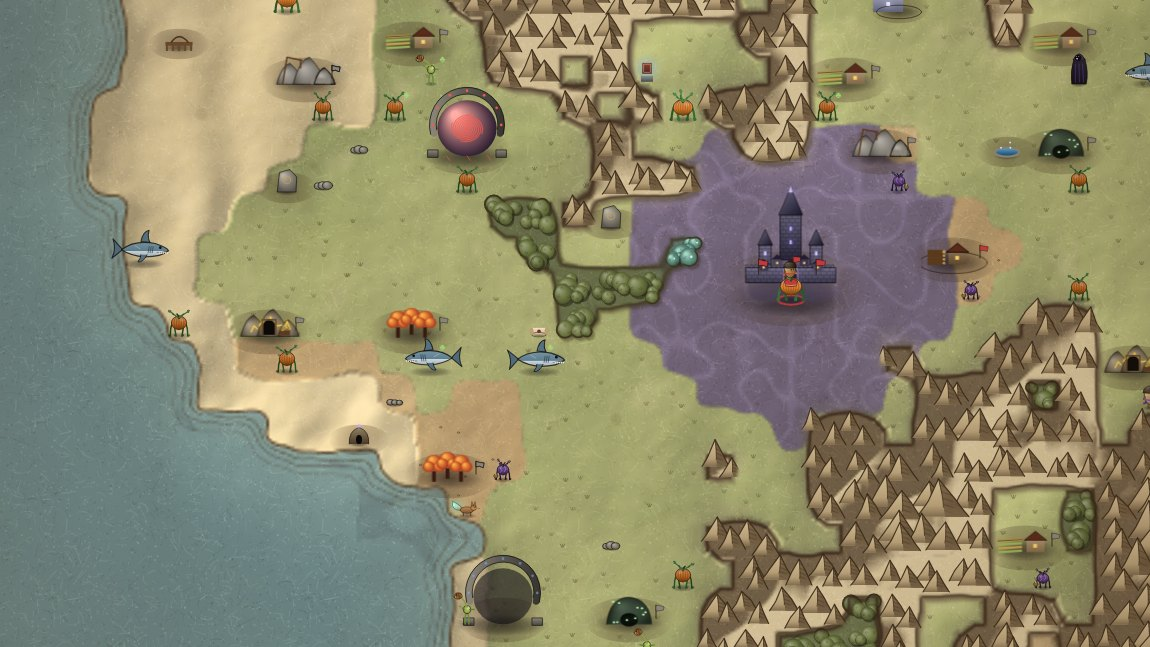
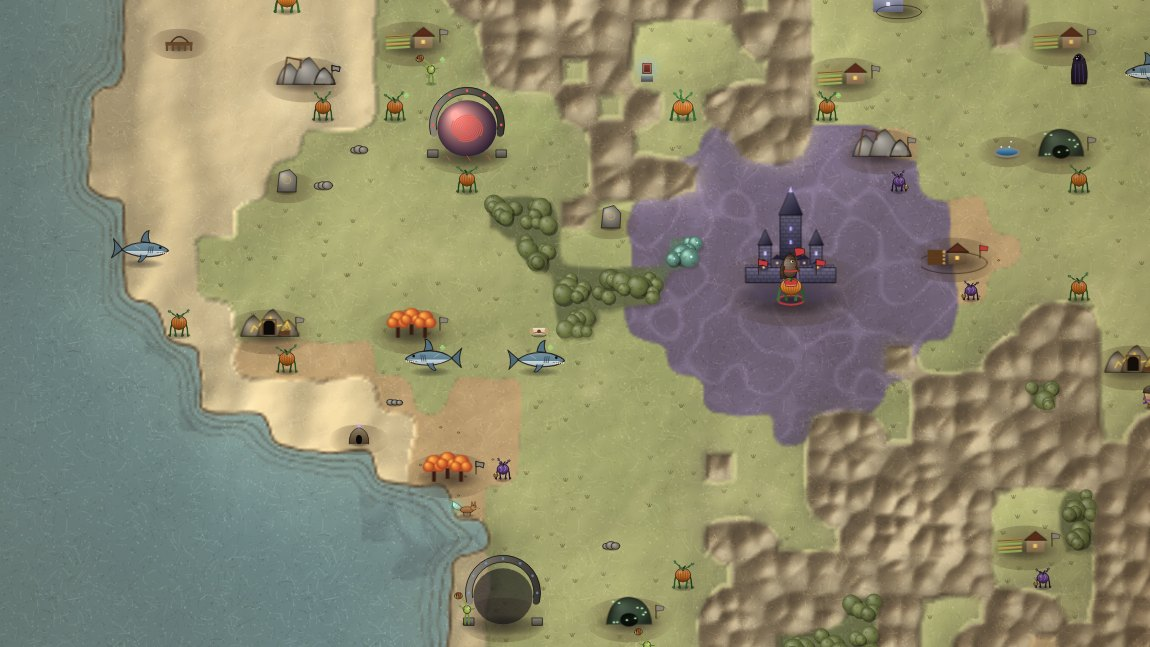
Skaar Uverkhron: paint mountains into the land as shaded relief
No more outlined base with peak pictures on top: each mountain tile
carries a few peaks and the range's height is the highest of them,
carved with gullies, lit from the north-west, darker at the foot and
snowy on high summits. Woods lose their hard ink outline and get
softer crowns. Hub preview refreshed.

Claude-Session: https://claude.ai/code/session_01HBjV8r2dv5uW79FEvfkpGS

diff --git a/skaar-uverkhron/js/view_map.js b/skaar-uverkhron/js/view_map.js
@@ -85,7 +85,7 @@
   };
   const PALRGB = {}; Object.keys(PAL).forEach(k => PALRGB[k] = { a: hex(PAL[k].a), b: hex(PAL[k].b), c: hex(PAL[k].c) });
   const WOODCOL = { tree: hex('#4f5a33'), glowtree: hex('#43625a'), pine: hex('#3f4c3a'), palm: hex('#66703f'), deadtree: hex('#5e5244'), reeds: hex('#6b6c44') };
-  const MROCK = hex('#8f7a5c'), MSNOW = hex('#ece3cc'), MR0 = hex('#5a4630'), MR1 = hex('#9a8562'), MR2 = hex('#cdb98f');
+  const MROCK = hex('#8f7a5c'), MSNOW = hex('#ece3cc'), MR0 = hex('#4a3a28'), MR1 = hex('#8c7656'), MR2 = hex('#d6c49c');
   const ROCK = hex('#9a8c72'), FOREST = hex('#5c6640'), REED = hex('#7b7c50'), SURF = hex('#c9c3a4'), WET = hex('#6c776a'), INK = hex('#4a3826'), PAPER = hex('#e8d9b4');
   const TOFF = {}; Object.keys(PAL).forEach((k, i) => TOFF[k] = i * 37.31 + 11.7);
   const sstep = (a, b, x) => { const t = SU.clamp((x - a) / (b - a), 0, 1); return t * t * (3 - 2 * t); };
@@ -142,6 +142,14 @@
     for (let qi = 0; qi < mq.length; qi++) { const o = mq[qi], i = o % TW, j = (o / TW) | 0;
       for (let dy = -1; dy <= 1; dy++) for (let dx = -1; dx <= 1; dx++) { const ii = i + dx, jj = j + dy; if ((!dx && !dy) || ii < 0 || jj < 0 || ii >= TW || jj >= TW) continue; const p = jj * TW + ii; if (mdist[p] > mdist[o] + 1) { mdist[p] = mdist[o] + 1; mq.push(p); } } }
     for (let o = 0; o < TW * TW; o++) if (mdist[o] > 50) mdist[o] = 4;
+    /* the peaks: two or three on every mountain tile, set by the tile itself (so neighbouring chunks agree),
+       taller and broader deep inside a range; the range's height is the highest cone at each point */
+    const PK = new Array(TW * TW);
+    for (let j = 0; j < TW; j++) for (let i = 0; i < TW; i++) { const o = j * TW + i; if (!mtnM[o]) continue;
+      const x = bx + i, y = by + j, R = SU.makeRng(x * 73856093 ^ y * 19349663 ^ (li + 1) * 83492791), md = Math.min(mdist[o], 4), ridge = L.ob[SU.clamp(y, 0, L.h - 1) * L.w + SU.clamp(x, 0, L.w - 1)] === S.OB.ridge;
+      const list = []; const n = 2 + (R.chance(0.5) ? 1 : 0);
+      for (let k = 0; k < n; k++) list.push([x + R.range(0.15, 0.85), y + R.range(0.15, 0.85), (0.5 + 0.32 * (md - 1)) * R.range(0.75, 1.2) * (ridge ? 0.65 : 1), (0.8 + 0.2 * Math.min(md - 1, 2)) * R.range(0.85, 1.2)]);
+      PK[o] = list; }
     /* water deepens away from the shore */
     const dist = new Float32Array(TW * TW).fill(9), q = [];
     for (let o = 0; o < TW * TW; o++) if (land[o]) { dist[o] = 0; q.push(o); }
@@ -156,7 +164,7 @@
     const tw = new Map();
     /* samples */
     const N = CH * SPT + 4, s0x = cx * CH - 2 / SPT, s0y = cy * CH - 2 / SPT;
-    const H = new Float32Array(N * N), col = new Float32Array(N * N * 3), isW = new Float32Array(N * N), wet = new Float32Array(N * N), alpha = new Float32Array(N * N).fill(1), MA = new Float32Array(N * N), CR = new Float32Array(N * N), SN = new Float32Array(N * N), FA = new Float32Array(N * N), LD = new Float32Array(N * N), LB = new Float32Array(N * N), EG = new Float32Array(N * N);
+    const H = new Float32Array(N * N), col = new Float32Array(N * N * 3), isW = new Float32Array(N * N), wet = new Float32Array(N * N), alpha = new Float32Array(N * N).fill(1), MA = new Float32Array(N * N), SN = new Float32Array(N * N), FA = new Float32Array(N * N), LD = new Float32Array(N * N), LB = new Float32Array(N * N), EG = new Float32Array(N * N);
     for (let sy = 0; sy < N; sy++) for (let sx = 0; sx < N; sx++) {
       const fx = s0x + (sx + 0.5) / SPT, fy = s0y + (sy + 0.5) / SPT, o = sy * N + sx;
       /* everything is read through a round, warped kernel over the nearby tiles, so no shape follows the grid */
@@ -237,12 +245,15 @@
         h += NZ.hill.fbm(fx * 0.32, fy * 0.32, 4) * (0.03 + pr.rough * 0.7) + (t === 'sand' ? Math.sin(fx * 2.2 + NZ.warp(fx * 0.3, fy * 0.3) * 4) * 0.03 : 0);
         /* a range: one massif rising from its edge, with sharp ridges running through it and snow on the high crests */
         if (ma > 0) {
-          const q1 = 1 - Math.abs(NZ.hill(fx * 0.5 + 200, fy * 0.5 - 40));
-          const rn = q1 * q1, rise = Math.sqrt(Math.max(0, bm - 0.25));
-          const hm = 0.12 + rise * 1.05 + (rn - 0.5) * Math.min(1, bm * 0.6) * 0.3 + NZ.hill(fx * 2.2, fy * 2.2) * 0.015;
-          h = h * (1 - ma) + hm * ma;
+          const ci = Math.floor(fx) - bx, cj = Math.floor(fy) - by; let hc = 0;
+          for (let dj = -2; dj <= 2; dj++) for (let di = -2; di <= 2; di++) { const ii = ci + di, jj = cj + dj; if (ii < 0 || jj < 0 || ii >= TW || jj >= TW) continue; const list = PK[jj * TW + ii]; if (!list) continue;
+            for (let q = 0; q < list.length; q++) { const P_ = list[q], v = 1 - Math.hypot(fx - P_[0], fy - P_[1]) / P_[3]; if (v > 0) { const c_ = P_[2] * v * v * (3 - 2 * v) * (0.55 + 0.45 * v); if (c_ > hc) hc = c_; } } }
+          /* gullies and spurs carved down the slopes */
+          const q1 = 1 - Math.abs(NZ.hill(fx * 1.6 + 200, fy * 1.6 - 40)), q2 = NZ.hill(fx * 4, fy * 4);
+          hc *= 0.86 + 0.14 * q1 * q1; hc += q2 * 0.012;
+          h = h * (1 - ma) + (0.05 + hc) * ma;
           let mr = MROCK[0], mg = MROCK[1], mb = MROCK[2];
-          SN[o] = sstep(2.0, 3.0, bm) * sstep(0.3, 0.7, rn) * 0.8 * ma;
+          SN[o] = sstep(0.95, 1.25, hc) * 0.9 * ma;
           r += (mr - r) * ma; g += (mg - g) * ma; b += (mb - b) * ma;
         }
       }
@@ -263,17 +274,13 @@
       if (wet[o]) lit = lit * (1 - wet[o]) + wet[o];
       let r = col[o * 3] * lit, g = col[o * 3 + 1] * lit, b = col[o * 3 + 2] * lit;
       /* ranges: rock coloured by how it faces the light, dark umber to pale ochre, snow kept pale */
-      if (MA[o] > 0) { const sl = SU.clamp(0.5 + (-dx - dy) * 1.1, 0, 1), m = MA[o];
+      if (MA[o] > 0) { const sl = SU.clamp(0.55 + (-dx - dy) * 0.11, 0, 1), m = MA[o], ao = 0.74 + 0.26 * sstep(0.08, 0.7, H[o]);
         const rr = sl < 0.5 ? MR0[0] + (MR1[0] - MR0[0]) * sl * 2 : MR1[0] + (MR2[0] - MR1[0]) * (sl - 0.5) * 2,
           rg = sl < 0.5 ? MR0[1] + (MR1[1] - MR0[1]) * sl * 2 : MR1[1] + (MR2[1] - MR1[1]) * (sl - 0.5) * 2,
           rb = sl < 0.5 ? MR0[2] + (MR1[2] - MR0[2]) * sl * 2 : MR1[2] + (MR2[2] - MR1[2]) * (sl - 0.5) * 2;
         const sn = SN[o], kr = rr + (Math.max(rr, MSNOW[0] * (0.7 + sl * 0.3)) - rr) * sn, kg = rg + (Math.max(rg, MSNOW[1] * (0.7 + sl * 0.3)) - rg) * sn, kb = rb + (Math.max(rb, MSNOW[2] * (0.72 + sl * 0.3)) - rb) * sn;
-        r += (kr - r) * m; g += (kg - g) * m; b += (kb - b) * m;
-        /* the crest line, inked: strong downward curvature across the ridge, where the slope is flat */
-        if (m > 0.6 && sx > 1 && sy > 1 && sx < N - 2 && sy < N - 2) {
-          const hxx = H[xr] + H[xl] - 2 * H[o], hyy = H[yd] + H[yu] - 2 * H[o], hxy = (H[yd + 1] - H[yd - 1] - H[yu + 1] + H[yu - 1]) / 4;
-          const lmin = (hxx + hyy) / 2 - Math.sqrt(((hxx - hyy) / 2) ** 2 + hxy * hxy);
-          CR[o] = sstep(0.003, 0.009, -lmin) * (1 - sstep(0.012, 0.04, Math.hypot(dx, dy) / k)); } }
+        r += (kr * ao - r) * m; g += (kg * ao - g) * m; b += (kb * ao - b) * m;
+      }
       /* the wash pools darker where one colour meets the next */
       if (EG[o] > 0) { const e = 1 - EG[o] * 0.14; r *= e; g *= e; b *= e * 1.02; }
       /* faded: drawn towards the paper, and towards sepia */
@@ -299,7 +306,7 @@
     const mask = (A_) => { const m = A.canvas(N, N), mg = m.getContext('2d'), mi = mg.createImageData(N, N), md = mi.data; let any = false;
       for (let o = 0; o < N * N; o++) { md[o * 4] = md[o * 4 + 1] = md[o * 4 + 2] = 255; md[o * 4 + 3] = A_[o] * 255; if (A_[o] > 0.01) any = true; }
       mg.putImageData(mi, 0, 0); return any ? m : null; };
-    c.mtn = mask(MA); c.wood = mask(FA); c.crest = mask(CR); c.H = H; c.N = N;
+    c.mtn = mask(MA); c.wood = mask(FA); c.H = H; c.N = N;
     return c;
   }
   /* a road tile's links to its neighbours */
@@ -359,65 +366,15 @@
           /* a few leaf-ticks, so a crown is foliage and not a ball */
           cg.strokeStyle = 'rgba(40,40,20,0.35)'; cg.lineWidth = Math.max(0.7, ts / 80); cg.beginPath();
           for (let q = 0; q < 3; q++) { const a = (c.v * 7 + q * 2.1) % (Math.PI * 2), rr = r * (0.35 + q * 0.15); cg.moveTo(x + Math.cos(a) * rr, y + Math.sin(a) * rr); cg.arc(x + Math.cos(a) * rr, y + Math.sin(a) * rr, r * 0.22, a + 0.6, a + 2.2); } cg.stroke();
-          cg.strokeStyle = 'rgba(52,40,28,0.6)'; cg.lineWidth = Math.max(0.8, ts / 60); cg.beginPath(); cg.arc(x, y, r, Math.PI * 0.0, Math.PI * 1.0); cg.stroke();
+          cg.strokeStyle = 'rgba(40,36,20,0.28)'; cg.lineWidth = Math.max(0.7, ts / 70); cg.beginPath(); cg.arc(x, y, r * 0.96, Math.PI * 0.1, Math.PI * 0.9); cg.stroke();
           if (glow) { cg.fillStyle = 'rgba(220,255,245,0.9)'; cg.beginPath(); cg.arc(x + r * 0.2, y - r * 0.1, Math.max(0.8, r * 0.12), 0, Math.PI * 2); cg.fill(); }
         }
       });
       cg.globalCompositeOperation = 'destination-in'; cg.drawImage(mask, -P, -P);
-      put(g, shadowOf(mask, ts * 0.07, ts * 0.09, 'rgba(40,30,18,0.5)'));
+      put(g, shadowOf(mask, ts * 0.06, ts * 0.08, 'rgba(40,30,18,0.32)'));
       put(g, cl);
-      put(g, ring(mask, inkW, 'rgba(58,42,26,0.85)'));
     }
-    /* ---- ranges: one chain of tightly packed, overlapping painted peaks on an inked base, taller along the middle ---- */
-    if (f.mtn) {
-      const mask = up(f.mtn);
-      put(g, shadowOf(mask, ts * 0.1, ts * 0.13, 'rgba(40,28,16,0.55)'));
-      put(g, ring(mask, inkW * 1.15, 'rgba(52,36,22,0.9)'));
-      const isM = (x, y) => S.inside(L, x, y) && (L.ob[y * L.w + x] === S.OB.mountain || L.ob[y * L.w + x] === S.OB.ridge);
-      const depth = (x, y) => { for (let r = 1; r <= 3; r++) for (let dy = -r; dy <= r; dy++) for (let dx = -r; dx <= r; dx++) { if (Math.max(Math.abs(dx), Math.abs(dy)) !== r) continue; const xx = x + dx, yy = y + dy; if (S.inside(L, xx, yy) && !isM(xx, yy)) return r; } return 4; };
-      const peaks = [];
-      for (let ty = -1; ty <= CH + 2; ty++) for (let tx = -2; tx <= CH + 1; tx++) {
-        const x = cx * CH + tx, y = cy * CH + ty; if (!isM(x, y)) continue;
-        const d = depth(x, y), ridge = L.ob[y * L.w + x] === S.OB.ridge, R = SU.makeRng(x * 7919 + y * 104729 + li * 13 + 1);
-        for (let k = 0; k < 2; k++) {
-          const size = (0.62 + 0.24 * Math.min(d - 1, 3)) * (ridge ? 0.72 : 1) * R.range(0.85, 1.15);
-          const px = tx * ts + (k ? R.range(0.5, 0.9) : R.range(0.1, 0.5)) * ts, py = ty * ts + (k ? R.range(0.75, 0.98) : R.range(0.45, 0.7)) * ts;
-          let ph = ts * 1.0 * size * R.range(0.9, 1.1);
-          /* on the range's northern edge a peak stays short, so it never hides open ground behind it */
-          if (!isM(x, y - 1) || !isM(px < tx * ts + ts / 2 ? x - 1 : x + 1, y - 1)) ph = Math.min(ph, py - ty * ts + ts * 0.32);
-          peaks.push({ x: px, y: py, w: ts * 0.6 * size * R.range(0.9, 1.25) * Math.min(1, 0.55 + ph / ts * 0.6), h: ph, sk: R.range(-0.18, 0.18), a: R.range(-0.08, 0.08), b: R.range(-0.08, 0.08), v: R.next() });
-        }
-      }
-      peaks.sort((p1, p2) => p1.y - p2.y);
-      const [pl, pg] = lay(); pg.lineJoin = 'round'; pg.lineCap = 'round';
-      const ink = 'rgba(52,36,22,0.88)', lw = Math.max(1, ts * 0.032);
-      peaks.forEach(p => {
-        const { x, y, w, h } = p, ax = x + p.sk * w, ay = y - h;
-        const ls = [x - w * 0.56, y - h * (0.42 + p.a)], rs = [x + w * 0.52, y - h * (0.48 + p.b)], rb = [x + w * 0.08, y];   // shoulders, and the foot of the ridge
-        const rm = [ax + (rb[0] - ax) * 0.5 + w * 0.06, ay + (y - ay) * 0.5];
-        const outline = () => { pg.beginPath(); pg.moveTo(x - w, y); pg.quadraticCurveTo(ls[0] - w * 0.1, ls[1] + h * 0.12, ls[0], ls[1]); pg.lineTo(ax, ay); pg.lineTo(rs[0], rs[1]); pg.quadraticCurveTo(rs[0] + w * 0.12, rs[1] + h * 0.14, x + w, y); };
-        /* the lit face, the shadowed face */
-        outline(); pg.closePath(); pg.fillStyle = (() => { const gr = pg.createLinearGradient(x, ay, x, y); gr.addColorStop(0, '#d3bd92'); gr.addColorStop(1, '#a8916b'); return gr; })(); pg.fill();
-        pg.beginPath(); pg.moveTo(ax, ay); pg.lineTo(rs[0], rs[1]); pg.quadraticCurveTo(rs[0] + w * 0.12, rs[1] + h * 0.14, x + w, y); pg.lineTo(rb[0], rb[1]); pg.quadraticCurveTo(rm[0], rm[1], ax, ay); pg.closePath();
-        pg.fillStyle = (() => { const gr = pg.createLinearGradient(ax, ay, x + w, y); gr.addColorStop(0, '#806a4a'); gr.addColorStop(1, '#5e4b34'); return gr; })(); pg.fill();
-        /* hatching down the shadowed face */
-        pg.save(); pg.clip(); pg.strokeStyle = 'rgba(46,32,18,0.45)'; pg.lineWidth = Math.max(0.7, ts / 70); pg.beginPath();
-        for (let q = 1; q <= 5; q++) { const t = q / 6, sx = ax + (rb[0] - ax) * t, sy = ay + (y - ay) * t; pg.moveTo(sx, sy); pg.lineTo(sx + w * 0.42, sy + h * 0.1); }
-        pg.stroke(); pg.restore();
-        /* snow on the tall ones */
-        if (h > ts * 1.2) { const sh = h * 0.26;
-          pg.beginPath(); pg.moveTo(ax, ay); pg.lineTo(ax + (rs[0] - ax) * 0.3, ay + sh * 0.9); pg.lineTo(ax + w * 0.02, ay + sh * 0.7); pg.lineTo(ax - w * 0.12, ay + sh * 1.05); pg.lineTo(ax + (ls[0] - ax) * 0.3, ay + sh * 0.85); pg.closePath();
-          pg.fillStyle = '#f0e8d4'; pg.fill(); }
-        /* the foot fades into the range below; the top contour and the ridge are inked */
-        pg.save(); outline(); pg.closePath(); pg.clip(); const fg = pg.createLinearGradient(0, y - h * 0.3, 0, y); fg.addColorStop(0, 'rgba(140,118,86,0)'); fg.addColorStop(1, 'rgba(120,100,72,0.85)'); pg.fillStyle = fg; pg.fillRect(x - w * 1.2, y - h * 0.3, w * 2.4, h * 0.3); pg.restore();
-        pg.strokeStyle = ink; pg.lineWidth = lw; outline(); pg.stroke();
-        pg.lineWidth = lw * 0.7; pg.beginPath(); pg.moveTo(ax, ay); pg.quadraticCurveTo(rm[0], rm[1], rb[0] + (ax - rb[0]) * 0.25, y - (y - ay) * 0.25); pg.stroke();
-      });
-      /* peaks may rise above the range's northern edge, but never spill below or far beside it */
-      const [cm, cmg] = lay(); [0, 0.22, 0.45].forEach(u => [-0.15, 0, 0.15].forEach(v => cmg.drawImage(mask, v * ts - P, -u * ts - P)));
-      pg.globalCompositeOperation = 'destination-in'; pg.drawImage(cm, -P, -P);
-      put(g, pl);
-    }
+    /* ranges need nothing drawn here: they are painted into the land as relief */
   }
   function bakeChunk(li, cx, cy) {
     const st = V.st, L = st.layers[li], ts = V.ts, W = CH * ts;

diff --git a/skaar-uverkhron/DESIGN.md b/skaar-uverkhron/DESIGN.md
@@ -408,14 +408,14 @@ changed from the Admin Panel without touching the code).
   paper has fibres, speckle, old stains and browned edges. The coast is inked, with three
   fading water-lines running out into the sea, as on old charts. Bare rock shows under
   ranges and leaf litter under woods. Roads are dashed red-brown ink over a pale track.
-- **Ranges and woods are solid masses, not single pictures.** Every blocked mountain tile
-  joins its neighbours into one range: an inked, shadowed base with a chain of tightly
-  packed, overlapping painted peaks on it (lit and shaded faces, hatching, snow on the tall
-  ones; taller along the middle of wide ranges, short on the northern edge so they never
-  hide open ground). Every blocked wood tile joins into one canopy of crowns (round trees,
-  pointed pines, bare dead trees, reed beds, glowing trees) whose outer crowns make its
-  scalloped, inked edge. The drawing keeps to the tiles: a blocked tile is always covered in
-  its middle and an open one always clear, so a narrow way through never looks closed.
+- **Ranges and woods are solid masses, not single pictures.** Mountains are painted into the
+  land itself as shaded relief, with no outline and nothing stuck on top: every mountain tile
+  carries two or three peaks, and the range's height at each point is the highest of them,
+  carved with gullies, lit from the north-west, darker at its foot and snowy on the high
+  summits deep in wide ranges. Woods are one canopy of soft painted crowns (round trees,
+  pointed pines, bare dead trees, reed beds, glowing trees) whose outer crowns make its edge.
+  The drawing keeps to the tiles: a blocked tile is always covered in its middle and an open
+  one always clear, so a narrow way through never looks closed.
 - **No pointless holes.** When a game starts, little patches of open land walled in by ranges
   or woods (holding nothing, touching nothing else), dead-end notches reached only by a
   diagonal squeeze, and boulders sitting inside a range are filled in with what surrounds
